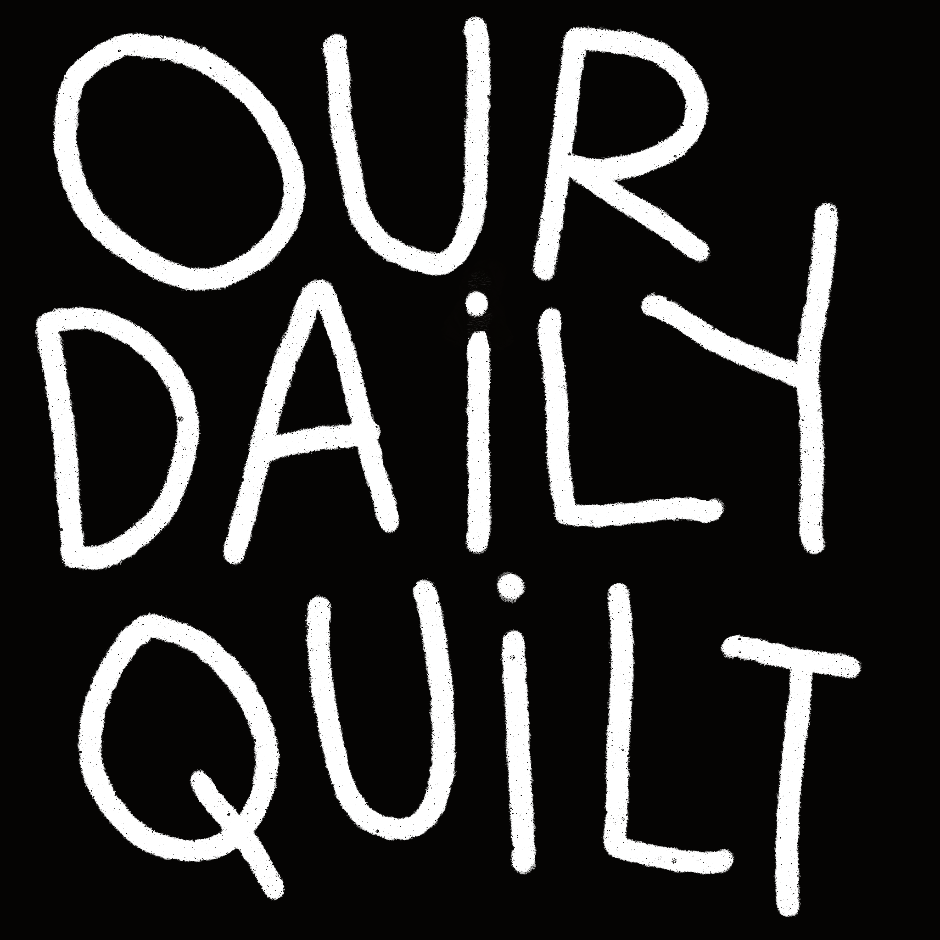
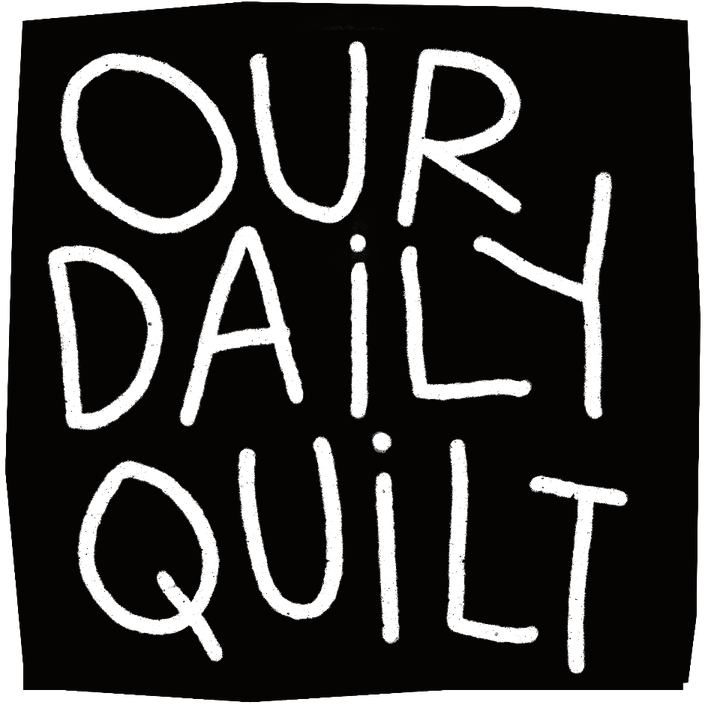
Portal polish: new title art, spacing, and simpler hero.
Update the portal lockup PNG (705px, letter knockouts), add space under the title before the date, remove the gather/build tagline and unused styles, and resize the graphic display rules from earlier.

Made-with: Cursor

Changed region(s): [[0.0, 0.0, 1.0, 1.0], [0.5305, 0.5929, 0.5929, 0.9362], [0.4993, 0.4993, 0.5305, 0.5929]]

diff --git a/our-daily-beta.html b/our-daily-beta.html
@@ -260,10 +260,10 @@ try {
 
     .portal-header .portal-title-graphic {
       display: block;
-      width: min(92vw, 400px);
+      width: min(69vw, 300px);
       max-width: 100%;
       height: auto;
-      margin: 0 auto 0.35rem;
+      margin: 0 auto;
     }
     
     .portal-header {
@@ -293,35 +293,7 @@ try {
     .portal-header .date {
       font-weight: 200;
       font-size: clamp(1.4rem, 3.5vw, 2rem);
-      margin-top: 0.5rem;
-    }
-    
-    .portal-question {
-      font-size: clamp(1.125rem, 2.625vw, 1.65rem);
-      font-style: italic;
-      font-weight: 200;
-      margin: 0;
-      max-width: 600px;
-      width: 90%;
-      animation: fadeInBreath 1.2s ease forwards;
-      text-align: center;
-      word-wrap: break-word;
-      overflow-wrap: break-word;
-    }
-    
-    @keyframes fadeInBreath {
-      0% {
-        opacity: 0;
-        transform: translateY(10px);
-      }
-      50% {
-        opacity: 0.8;
-        transform: translateY(-2px);
-      }
-      100% {
-        opacity: 1;
-        transform: translateY(0);
-      }
+      margin-top: clamp(1.1rem, 3.5vh, 1.75rem);
     }
     
     #screen-portal {
@@ -1310,12 +1282,6 @@ try {
         box-sizing: border-box;
       }
       
-      .portal-question {
-        width: 100%;
-        max-width: 100%;
-        padding: 0 1rem;
-        box-sizing: border-box;
-      }
       .quote-card { width: 85%; padding: 1.5rem; }
       .css-color-wheel { 
         width: 288px; 
@@ -1546,7 +1512,6 @@ try {
       }
       
       .portal-header h1 { font-size: 2rem; }
-      .portal-question { font-size: 1.8rem; margin: 1rem 0 3rem; }
       .css-color-wheel { 
         width: 240px; 
         height: 240px; 
@@ -2396,18 +2361,14 @@ try {
               class="portal-title-graphic"
               src="assets/portal-our-daily-quilt.png"
               alt="Our Daily Quilt"
-              width="940"
-              height="940"
+              width="705"
+              height="705"
               decoding="async"
               fetchpriority="high"
             />
           </div>
           <p class="date" id="date-text" aria-live="polite"></p>
         </div>
-        
-        <div style="margin-top: 2rem;"></div>
-        
-        <p class="portal-question">First we gather<br>then we build</p>
       </div>
 
       <div class="portal-scroll-hint" id="portalScrollHint" hidden aria-hidden="true">
